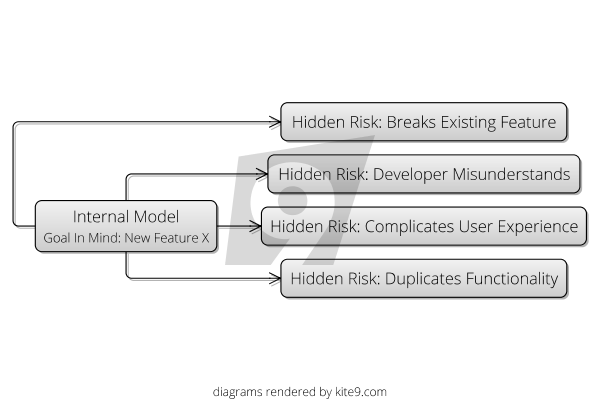
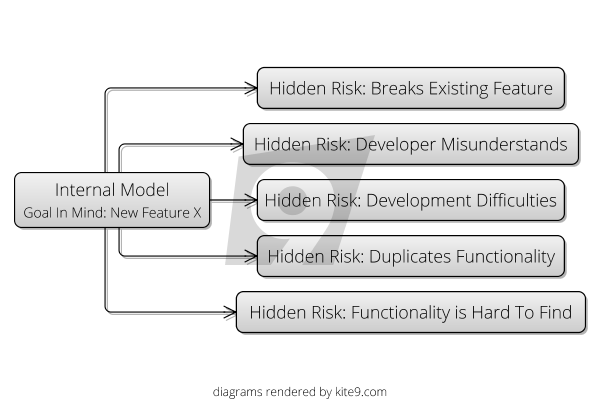
Finishing DevProcess

diff --git a/introduction/Development-Process.md b/introduction/Development-Process.md
@@ -46,15 +46,15 @@ Two reasons:
 
 ## Applying the Model
 
-Let's look at how our process should act to prevent these risks materializing by considering an unhappy path, one where at the outset, we have lots of [Hidden Risks](Attendant-Risk) ready to materialize.  Let's say a particularly vocal user rings up someone in the office and asks for new feature **X** to be added to the software.  It's logged as a new feature request, but:
+Let's look at how our process should act to prevent these risks materializing by considering an unhappy path, one where at the outset, we have lots of [Hidden Risks](Attendant-Risk) ready to materialize.  Let's say a particularly vocal user rings up someone in the office and asks for new **Feature X** to be added to the software.  It's logged as a new feature request, but:
   
-- Unfortunately, this feature once programmed will break an existing feature **Y**  
+- Unfortunately, this feature once programmed will break an existing **Feature Y**  
 - Implementing the feature will use some api in a library, which contains bugs and have to be coded around.    
 - It's going to get misunderstood by the developer too, who is new on the project and doesn't understand how the software is used.  
-- Actually, this functionality is mainly served by feature **Z**...
+- Actually, this functionality is mainly served by **Feature Z**...
 - which is already there but hard to find.
 
-![Development Process - Hidden Risks](dev_process_hidden_risks.png)
+![Development Process - Hidden Risks](images/dev_process_hidden_risks.png)
 
 This is a slightly contrived example, as you'll see.  But let's follow our feature through the process and see how it meets reality slowly, and the hidden risks are discovered:
 
@@ -73,19 +73,15 @@ In the process of doing this, the BA is turning the simple feature request _idea
 
 Hopefully, after this stage, our [Internal Model](Internal-Model) might look something like this:
 
-Reality - the BA's understanding
-New Apparent Risks: 
-  - Feature Z:  we duplicate functionality in the project which will waste time and make it more complicated to understand.
-  - Implementation risk: explain the concepts really well so the developer will understand.
+![BA Specification](images/dev_process_ba.png)
 
-
-Now, it's _also_ part of the BA's job to polish up these ideas: **Feature X** might be flawed, but perhaps with work, the BA can "evolve" it into **Feature X+**, which circumvents the original problems.   The BA does all this by simply _thinking about it_, _talking to people_ and _writing stuff down_.
+In surfacing these risks, there is another outcome:  while **Feature X** might be flawed as originally presented, the BA can "evolve" it into a specification, ties it down sufficiently to reduce the risks.   The BA does all this by simply _thinking about it_, _talking to people_ and _writing stuff down_.
 
 This process of evolving the feature request into a requirement is the BAs job.  From our risk-first perspective, it is _taking an idea and making it meet reality_.  Not the _full reality_ of production (yet), but something more limited.  After its brush with reality, the [goal in mind](Goal-In-Mind) has _evolved_ from being **Feature X Idea** to **Feature X Specification**.
 
 ### Code And Unit Test
 
-The next stage for our feature, **Feature X++** is that it gets coded and some tests get written.  This article isn't about good testing process, so we're not going to look at that.  Let's look at how our [goal in mind](Goal-In-Mind) meets a new reality:   this time it's the reality of a pre-existing codebase, which has it's own internal logic.
+The next stage for our feature, **Feature X (Specification)** is that it gets coded and some tests get written.  This article isn't about good testing process, so we're not going to look at that.  Let's look at how our [goal in mind](Goal-In-Mind) meets a new reality:   this time it's the reality of a pre-existing codebase, which has it's own internal logic.
 
 As the developer begins coding the feature in the software, she will start with an [Internal Model](Internal-Model) of the software, and how the code fits into it.  But, in the process of implementing it, she is likely to learn about the codebase, and 
 her [Internal Model](Internal-Model) will develop.  
@@ -93,12 +89,9 @@ her [Internal Model](Internal-Model) will develop.
 To a large extent, this is the whole point of _type safety_:  to ensure that your [Internal Model](Internal-Model) stays consistent with the reality of the codebase.  If you add code that doesn't fit the reality of the codebase, you'll know about it with compile errors.
 
 The same thing is true of writing unit tests:  again you are testing your [Internal Model](Internal-Model) against the reality of the system being built, running in your development environment.  Hopefully, this will surface some new hidden risks, and again,
-because the [goal in mind](Goal-In-Mind) has met reality, it is changed, to **Feature X Code**.
+because the [goal in mind](Goal-In-Mind) has met reality, it is changed, to **Feature X (Code)**.
 
-Reality: working code
-Apparent Risks:
-  - problems with API
-  - Output feature x code
+![Coding Process](images/dev_process_code.png)
 
 ### Integration
 
@@ -108,17 +101,13 @@ So, this stage is about the developer's committed code meeting a new reality: th
 
 At this stage, we might discover the [Hidden Risk](Attendant-Risk) that we'd break **Feature Y**
 
-INput - Feature X Code
-New hidden risk - broken feature Y
-Output - Feature X Integrated
+![Integration](images/dev_process_integration.png)
 
 ### UAT
 
 Is where our feature meets another reality: _actual users_.   I think you can see how the process works by now.  We're just flushing out yet more [Hidden Risks](Attendant-Risk):
 
-Input: Feature X Integrated
-Reality: UAT
-Hidden Risks:  Users find it difficult to find the functionality.
+![UAT](images/dev_process_uat.png)
 
 ## Observations
 
@@ -130,7 +119,7 @@ Second, are these really risks, or are they _problems we just didn't know about_
 
 Third, the real takeaway from this is that all these risks exist because we don't know 100% how reality is.  Risk exists because we don't (and can't) have a perfect view of the universe and how it'll develop.   Reality is reality, _the risks just exist in our head_.
 
-Fourth, hopefully you can see from the above that really _all work is risk management_, and _all work is testing ideas against reality_.  
+Fourth, hopefully you can see from the above that really _all this work is risk management_, and _all work is testing ideas against reality_.   (This idea is expanded on in the next section).
 
 Fifth, and finally, the wake-up call _is_ reality:  the longer you leave your [goal in mind](Goal-In-Mind), the longer it'll be before you find out how it really stacks up against reality.  Testing your [goals in mind](Goal-In-Mind) early and safely is how you'll manage risk effectively, as we'll see in the next section.
 
